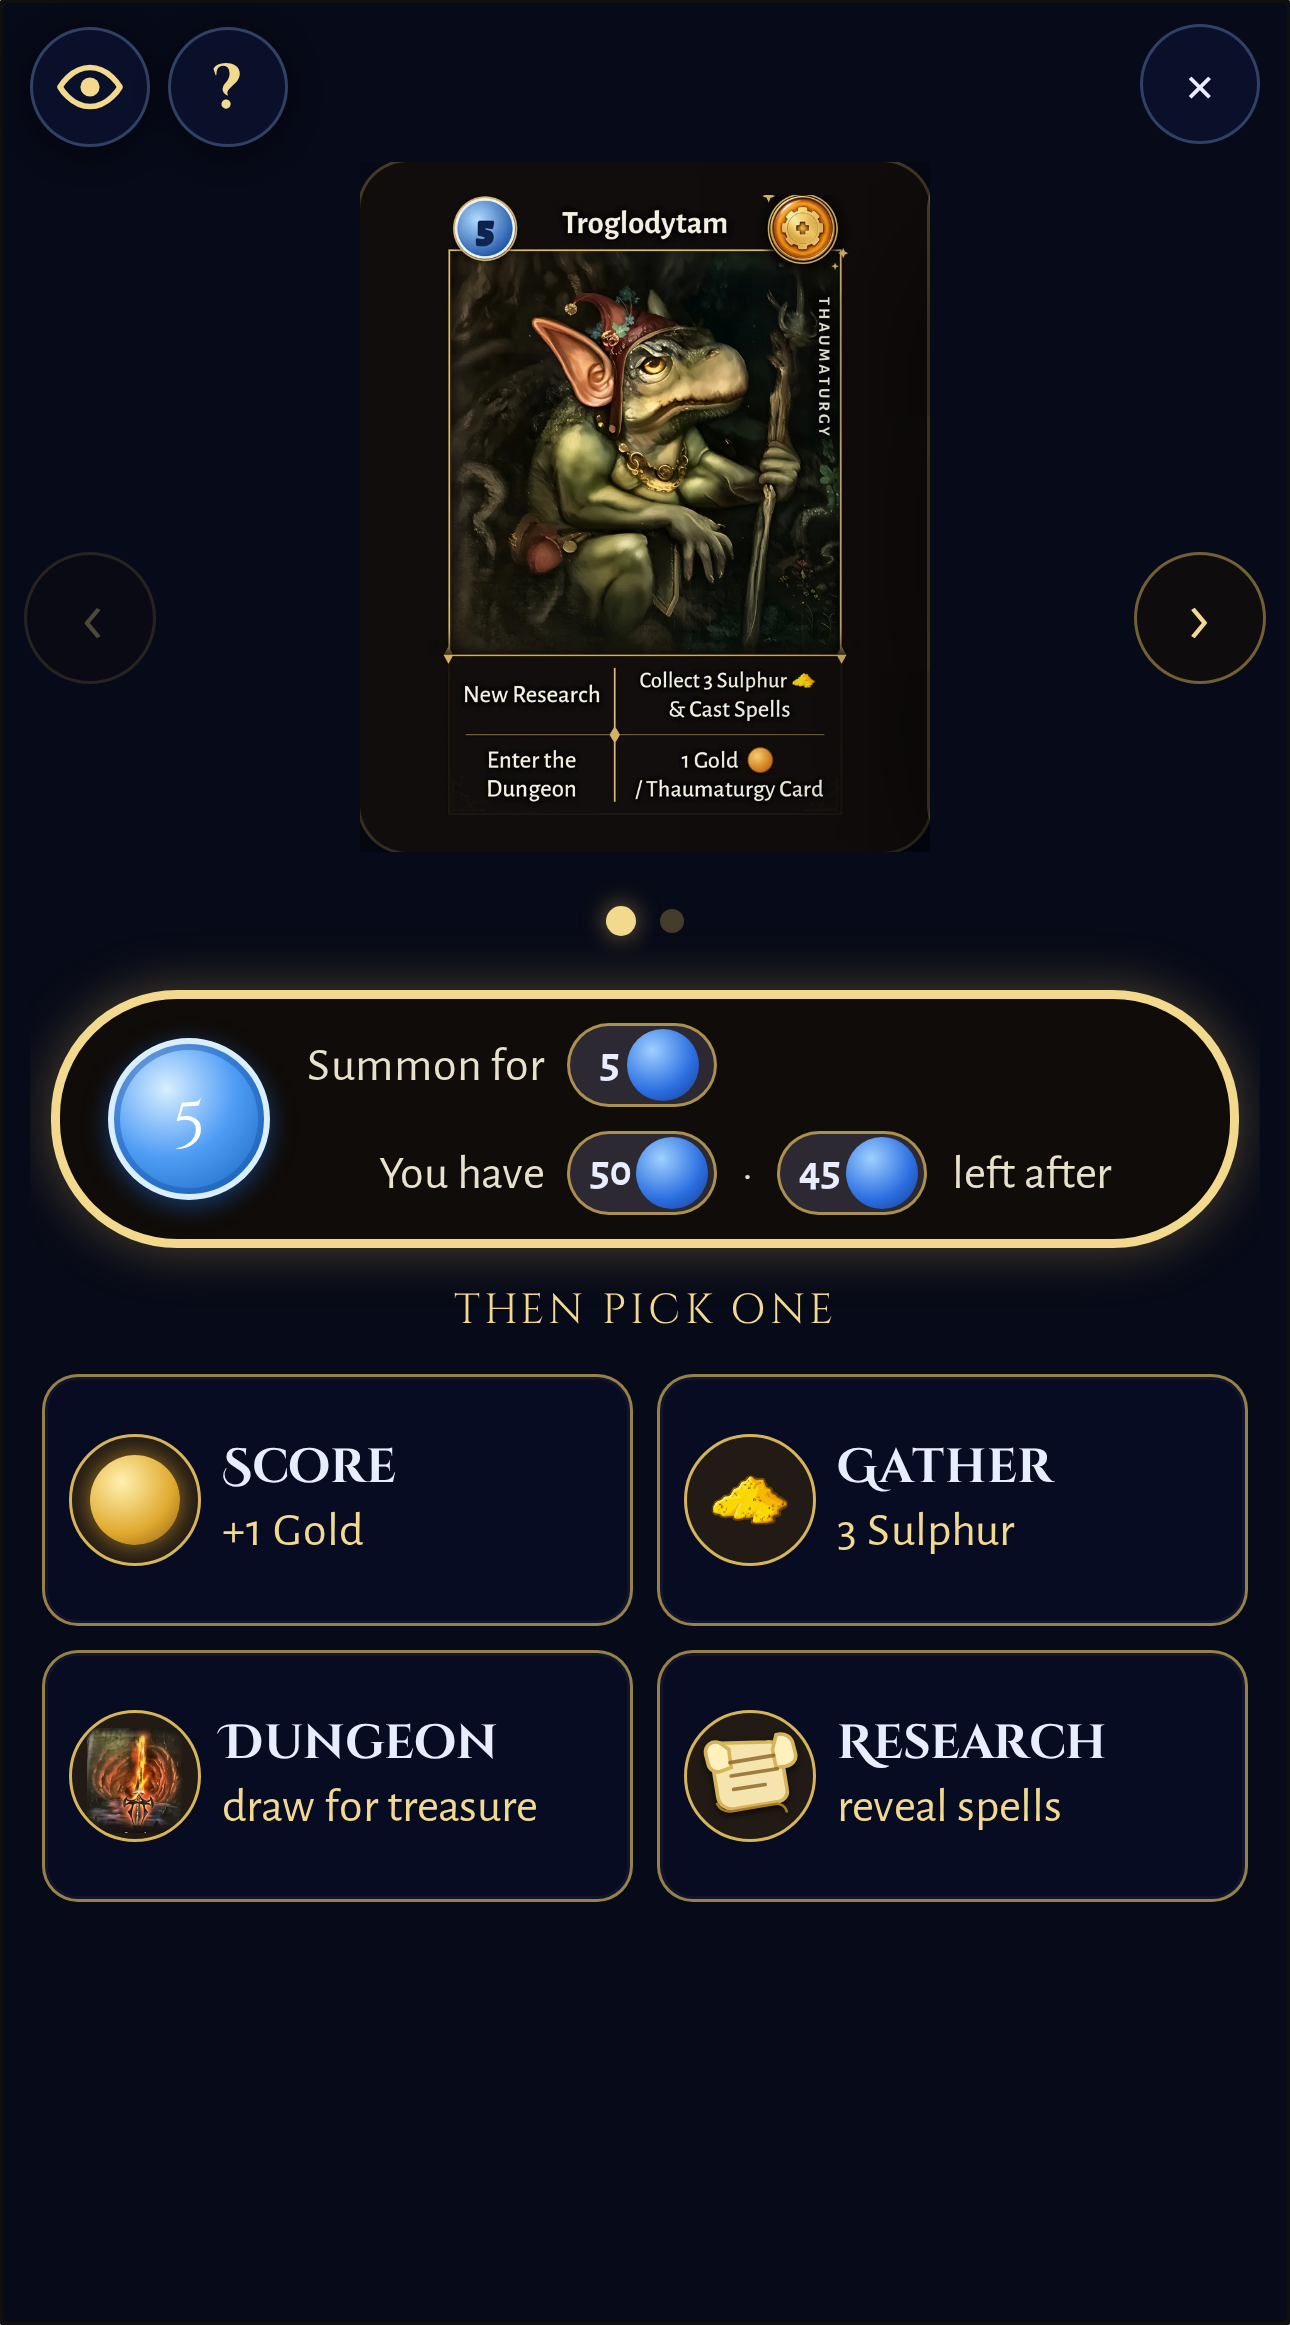
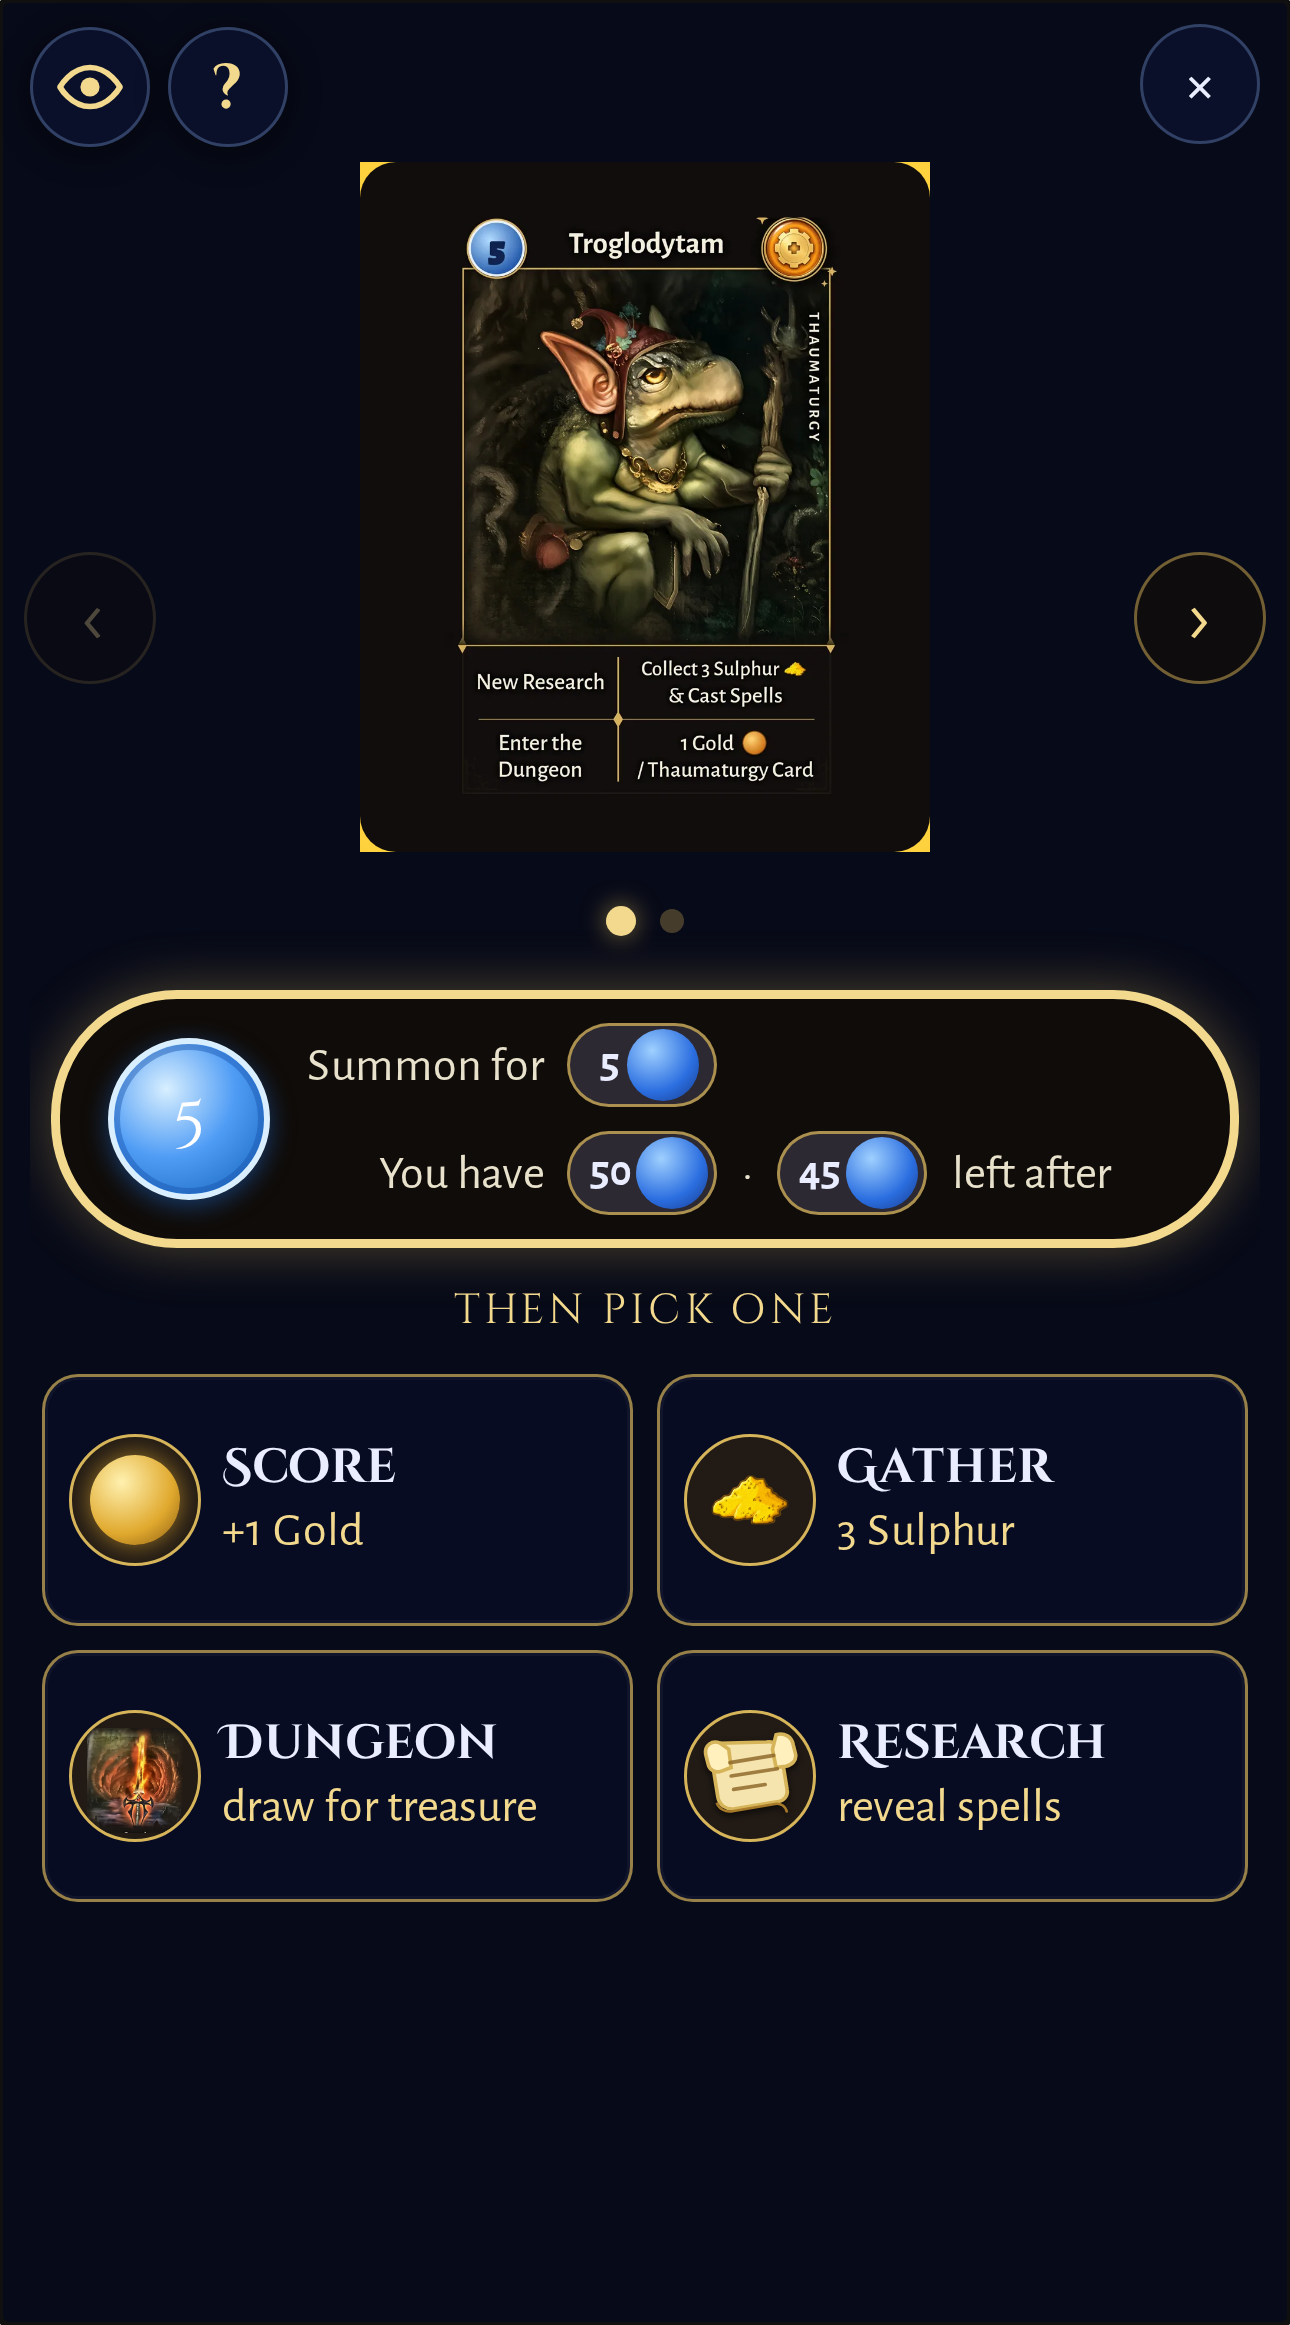
Fix summon pulse: beat cardFadeIn, outward ring at 300ms (#167)
cardFadeIn on .expand .big-frame overrode summon-pulse-glow (no ring on
index 0). Use outward box-shadow on the frame, track padding, and scaled
art so the ring sits outside the card. Capture live peak ~300ms with
computed box-shadow color assertions; remove freeze hack.

diff --git a/tests/e2e/summon-score-feedback.spec.js b/tests/e2e/summon-score-feedback.spec.js
@@ -47,7 +47,6 @@ async function waitSummonOverlayReady(page) {
     if (!ov || ov.classList.contains('out')) return false;
     return parseFloat(getComputedStyle(ov).opacity) >= 0.99;
   }), { timeout: 3000 }).toBe(true);
-  await page.waitForTimeout(280);
 }
 
 async function assertNoNeighborInTrack(page) {
@@ -70,31 +69,37 @@ async function assertNoNeighborInTrack(page) {
   expect(peek.ok, JSON.stringify(peek)).toBe(true);
 }
 
-async function pausePulsePeak(page) {
+async function captureLivePulsePeak(page, { index, rgbRe, shotPath }) {
+  await expect.poll(async () => page.evaluate(({ idx, source }) => {
+    const frame = document.querySelector(`.big-frame.summon-pulse[data-index="${idx}"]`);
+    if (!frame?.dataset.pulseStart) return false;
+    const elapsed = performance.now() - Number(frame.dataset.pulseStart);
+    const bs = getComputedStyle(frame).boxShadow;
+    const re = new RegExp(source);
+    return elapsed >= 200 && elapsed <= 500 && bs !== 'none' && re.test(bs);
+  }, { idx: index, source: rgbRe.source }), { timeout: 4000, intervals: [20] }).toBe(true);
   await waitSummonOverlayReady(page);
-  await page.addStyleTag({ content: `
-    [data-testid="summon-use"] { opacity: 1 !important; animation: none !important; }
-  ` });
-  await page.evaluate(() => {
-    document.querySelector('.big-frame.summon-pulse')?.classList.add('summon-pulse-freeze');
-    return new Promise((r) => requestAnimationFrame(() => requestAnimationFrame(r)));
-  });
-}
-
-async function readPulseFrame(page) {
-  return page.evaluate(() => {
-    const frame = document.querySelector('.big-frame.summon-pulse');
+  const ring = await page.evaluate((idx) => {
+    const frame = document.querySelector(`.big-frame.summon-pulse[data-index="${idx}"]`);
     if (!frame) return null;
-    const color = getComputedStyle(frame).getPropertyValue('--summon-pulse-color').trim();
-    const transform = frame.style.transform || getComputedStyle(frame).transform;
+    const cs = getComputedStyle(frame);
+    const rect = frame.getBoundingClientRect();
     return {
       index: frame.dataset.index,
       slug: frame.className,
-      color,
-      transform,
-      count: document.querySelectorAll('.big-frame.summon-pulse').length,
+      boxShadow: cs.boxShadow,
+      width: rect.width,
+      height: rect.height,
     };
-  });
+  }, index);
+  expect(ring, 'pulse frame missing').not.toBeNull();
+  expect(ring.boxShadow, ring?.boxShadow).not.toBe('none');
+  expect(ring.boxShadow).toMatch(rgbRe);
+  expect(ring.width, 'frame not laid out').toBeGreaterThan(40);
+  expect(ring.height).toBeGreaterThan(40);
+  await assertNoNeighborInTrack(page);
+  await page.screenshot({ path: shotPath, fullPage: true });
+  return ring;
 }
 
 test('Summon pulse: school ring on opened card in two-card market (#167)', async ({ page }) => {
@@ -103,30 +108,25 @@ test('Summon pulse: school ring on opened card in two-card market (#167)', async
 
   await page.getByTestId('slot-fam_0').click();
   await expect(page.getByTestId('summon-use')).toBeVisible();
-  await expect.poll(async () => (await readPulseFrame(page))?.count === 1, { timeout: 3000 }).toBe(true);
-  const trog = await readPulseFrame(page);
-  expect(trog.index).toBe('0');
+  const trog = await captureLivePulsePeak(page, {
+    index: '0',
+    rgbRe: /255,\s*210,\s*63/,
+    shotPath: 'docs/screenshots/summon-pulse-thaumaturgy-430x775.png',
+  });
   expect(trog.slug).toContain('summon-pulse-thaumaturgy');
-  expect(trog.color).toContain('255, 210');
-  expect(trog.color).not.toContain(LEGACY_DEFAULT_BLUE);
-  await assertNoNeighborInTrack(page);
-  await pausePulsePeak(page);
-  await page.screenshot({ path: 'docs/screenshots/summon-pulse-thaumaturgy-430x775.png', fullPage: true });
+  expect(trog.boxShadow).not.toContain(LEGACY_DEFAULT_BLUE);
   await page.getByTestId('summon-cancel').click();
   await expect(page.getByTestId('summon-use')).toHaveCount(0);
 
   await page.getByTestId('slot-fam_1').click();
   await expect(page.getByTestId('summon-use')).toBeVisible();
-  await expect.poll(async () => (await readPulseFrame(page))?.count === 1, { timeout: 3000 }).toBe(true);
-  const nymph = await readPulseFrame(page);
-  expect(nymph.index).toBe('1');
+  const nymph = await captureLivePulsePeak(page, {
+    index: '1',
+    rgbRe: /95,\s*211,\s*95/,
+    shotPath: 'docs/screenshots/summon-pulse-druidry-430x775.png',
+  });
   expect(nymph.slug).toContain('summon-pulse-druidry');
-  expect(nymph.color).toContain('95, 211');
-  expect(nymph.color).not.toContain(LEGACY_DEFAULT_BLUE);
-  expect(nymph.transform).toMatch(/translateX\(0(%|px)?\)|matrix\(1, 0, 0, 1, 0, 0\)/);
-  await assertNoNeighborInTrack(page);
-  await pausePulsePeak(page);
-  await page.screenshot({ path: 'docs/screenshots/summon-pulse-druidry-430x775.png', fullPage: true });
+  expect(nymph.boxShadow).not.toContain(LEGACY_DEFAULT_BLUE);
 });
 
 test('Summon familiar: school pulse class then action tiles (#summon-pulse)', async ({ page }) => {
@@ -152,8 +152,11 @@ test('Summon familiar: school pulse class then action tiles (#summon-pulse)', as
     slug: document.querySelector('.big-frame.summon-pulse')?.className || '',
   }));
 
-  await pausePulsePeak(page);
-  await page.screenshot({ path: 'docs/screenshots/summon-pulse-430x775.png', fullPage: true });
+  await captureLivePulsePeak(page, {
+    index: String(slot),
+    rgbRe: /94,\s*176,\s*255/,
+    shotPath: 'docs/screenshots/summon-pulse-430x775.png',
+  });
 
   await expect.poll(async () => {
     const st = await page.evaluate(() => ({

diff --git a/app/css/app.css b/app/css/app.css
@@ -807,40 +807,37 @@ input[type=range].slider::-moz-range-thumb { width: 28px; height: 28px; border-r
 .familiar-action-copy { min-width: 0; display: flex; flex-direction: column; justify-content: center; gap: 4px; }
 .familiar-action-note { color: var(--muted); font-size: 10px; line-height: 1.1; margin-top: 2px; white-space: nowrap; }
 .summon-pulse-pending { visibility: hidden; pointer-events: none; }
+.expand.summon-pulse-stage .card-track {
+  padding: 20px;
+  box-sizing: border-box;
+}
 .expand.summon-pulse-stage .card-track .big-frame:not(.summon-pulse) { visibility: hidden; pointer-events: none; }
-.big-frame.summon-pulse { border-radius: 10px; position: relative; z-index: 1; overflow: hidden; }
-.big-frame.summon-pulse::after {
-  content: '';
+.expand .big-frame.summon-pulse {
+  border-radius: 12px;
   position: absolute;
-  inset: 5px;
-  border-radius: 10px;
-  pointer-events: none;
-  z-index: 3;
+  z-index: 1;
+  overflow: visible;
   animation: summon-pulse-glow .6s ease-out 1 both;
 }
-.big-frame.summon-pulse.summon-pulse-freeze::after {
-  animation: none;
-  opacity: 1;
-  box-shadow:
-    inset 0 0 0 12px var(--summon-pulse-color),
-    0 0 0 4px var(--summon-pulse-color),
-    0 0 42px 22px var(--summon-pulse-outer, var(--summon-pulse-color));
+.expand .big-frame.summon-pulse .big {
+  transform: scale(0.93);
+  transform-origin: center center;
 }
-.big-frame.summon-pulse.summon-pulse-sorcery { --summon-pulse-color: rgb(94, 176, 255); --summon-pulse-outer: rgba(94, 176, 255, .65); }
-.big-frame.summon-pulse.summon-pulse-alchemy { --summon-pulse-color: rgb(255, 192, 74); --summon-pulse-outer: rgba(255, 192, 74, .6); }
-.big-frame.summon-pulse.summon-pulse-conjuring { --summon-pulse-color: rgb(255, 107, 74); --summon-pulse-outer: rgba(255, 107, 74, .6); }
-.big-frame.summon-pulse.summon-pulse-druidry { --summon-pulse-color: rgb(95, 211, 95); --summon-pulse-outer: rgba(95, 211, 95, .65); }
-.big-frame.summon-pulse.summon-pulse-enchantment { --summon-pulse-color: rgb(255, 143, 216); --summon-pulse-outer: rgba(255, 143, 216, .6); }
-.big-frame.summon-pulse.summon-pulse-necromancy { --summon-pulse-color: rgb(143, 188, 255); --summon-pulse-outer: rgba(143, 188, 255, .65); }
-.big-frame.summon-pulse.summon-pulse-thaumaturgy { --summon-pulse-color: rgb(255, 210, 63); --summon-pulse-outer: rgba(255, 226, 80, .88); }
+.expand .big-frame.summon-pulse.summon-pulse-sorcery { --summon-pulse-color: rgb(94, 176, 255); --summon-pulse-outer: rgba(94, 176, 255, .65); }
+.expand .big-frame.summon-pulse.summon-pulse-alchemy { --summon-pulse-color: rgb(255, 192, 74); --summon-pulse-outer: rgba(255, 192, 74, .6); }
+.expand .big-frame.summon-pulse.summon-pulse-conjuring { --summon-pulse-color: rgb(255, 107, 74); --summon-pulse-outer: rgba(255, 107, 74, .6); }
+.expand .big-frame.summon-pulse.summon-pulse-druidry { --summon-pulse-color: rgb(95, 211, 95); --summon-pulse-outer: rgba(95, 211, 95, .65); }
+.expand .big-frame.summon-pulse.summon-pulse-enchantment { --summon-pulse-color: rgb(255, 143, 216); --summon-pulse-outer: rgba(255, 143, 216, .6); }
+.expand .big-frame.summon-pulse.summon-pulse-necromancy { --summon-pulse-color: rgb(143, 188, 255); --summon-pulse-outer: rgba(143, 188, 255, .65); }
+.expand .big-frame.summon-pulse.summon-pulse-thaumaturgy { --summon-pulse-color: rgb(255, 210, 63); --summon-pulse-outer: rgba(255, 226, 80, .88); }
 @keyframes summon-pulse-glow {
-  0%, 100% { opacity: 0; box-shadow: none; }
+  0%, 100% { box-shadow: 0 0 0 0 transparent; filter: none; }
   50% {
-    opacity: 1;
     box-shadow:
-      inset 0 0 0 12px var(--summon-pulse-color),
-      0 0 0 4px var(--summon-pulse-color),
-      0 0 42px 22px var(--summon-pulse-outer, var(--summon-pulse-color));
+      0 0 0 10px var(--summon-pulse-color),
+      0 0 0 12px var(--summon-pulse-color),
+      0 0 40px 20px var(--summon-pulse-outer, var(--summon-pulse-color));
+    filter: drop-shadow(0 0 14px var(--summon-pulse-color));
   }
 }
 .mcard.score-school-blink { animation: score-school-blink .4s ease-out 1 both; border-radius: 6px; position: relative; z-index: 2; }

diff --git a/app/js/action-feedback.js b/app/js/action-feedback.js
@@ -55,13 +55,20 @@ export function runSummonIntroPulse(overlayEl, school, cardIndex) {
   if (!overlayEl || !school || GA.reducedMotion()) return Promise.resolve();
   cancelSummonIntroPulse(overlayEl);
   const slug = schoolClass(school);
-  const frame = pulseFrame(overlayEl, cardIndex);
-  if (!frame) return Promise.resolve();
   const pending = overlayEl.querySelectorAll('.summon-pulse-pending');
   overlayEl.dataset.summonPulse = 'active';
-  frame.classList.add('summon-pulse', `summon-pulse-${slug}`);
   overlayEl.classList.add('summon-pulse-stage');
   return new Promise((resolve) => {
+    const frame = pulseFrame(overlayEl, cardIndex);
+    if (!frame) {
+      overlayEl.classList.remove('summon-pulse-stage');
+      delete overlayEl.dataset.summonPulse;
+      resolve();
+      return;
+    }
+    frame.dataset.pulseStart = String(performance.now());
+    frame.classList.add('summon-pulse', `summon-pulse-${slug}`);
+    void frame.offsetWidth;
     const finish = () => {
       frame.classList.remove('summon-pulse', `summon-pulse-${slug}`);
       overlayEl.classList.remove('summon-pulse-stage');
